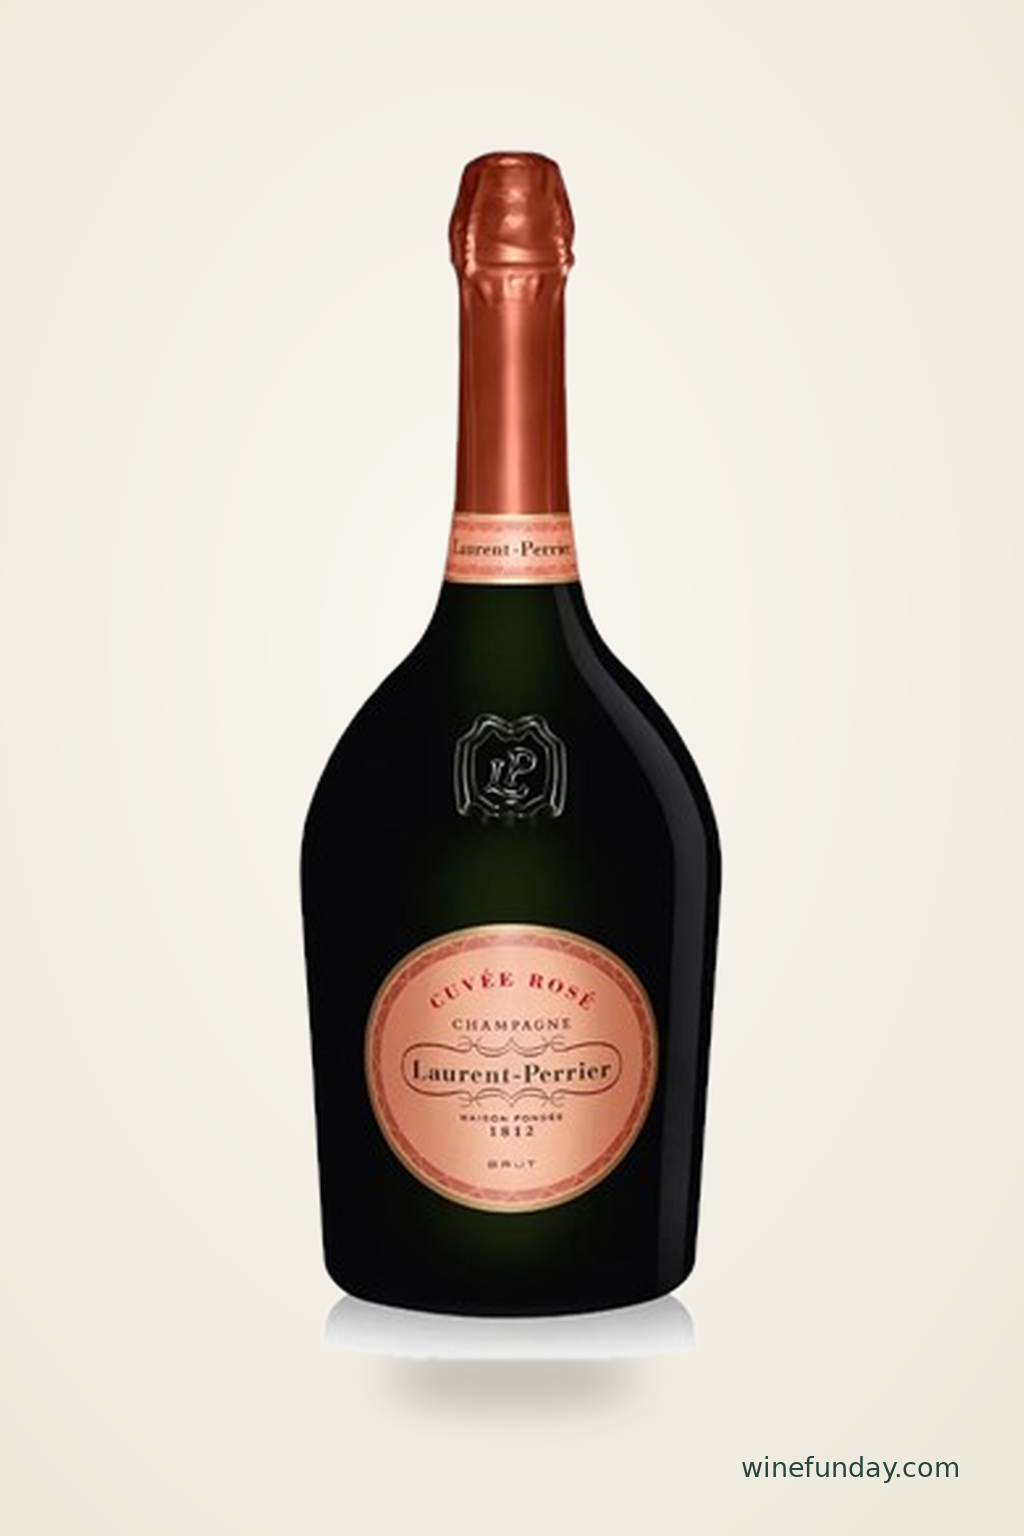
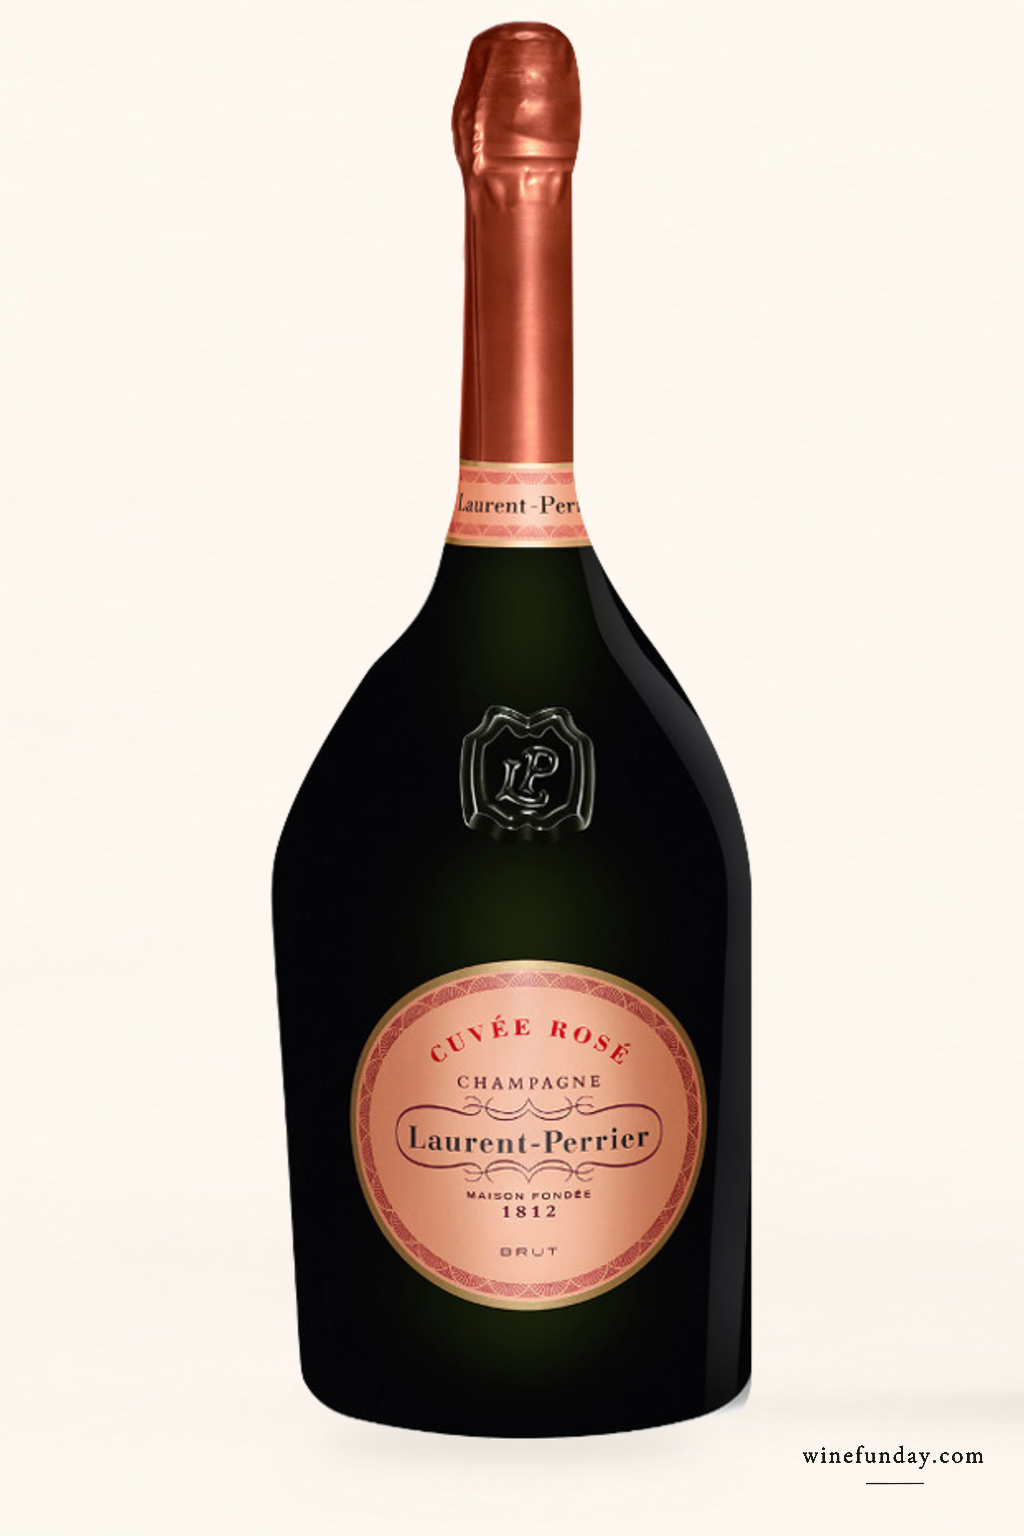
Add verified Laurent-Perrier Cuvée Rosé Jeroboam image

Changed region(s): [[0.25, 0.0, 0.9375, 0.9688]]

diff --git a/wine-image-overrides.js b/wine-image-overrides.js
@@ -11,7 +11,7 @@ window.WINE_IMAGE_OVERRIDES = Object.freeze({
   "CH804-2-NV": "Weinbilder/CH804-2-NV.webp",
   "CH805-1-NV": "Weinbilder/CH805-1-NV.webp?v=master-20260918-6",
   "CH805-2-NV": "Weinbilder/CH805-2-NV.webp?v=master-20260918-7",
-  "CH805-3-NV": "Weinbilder/CH805-3-NV.webp",
+  "CH805-3-NV": "Weinbilder/CH805-3-NV.webp?v=master-20260918-8",
   "CH806-1-NV": "Weinbilder/CH806-1-NV.webp",
   "CH806-2-NV": "Weinbilder/CH806-2-NV.webp",
   "CH807-1-12": "Weinbilder/CH807-1-12.webp",
